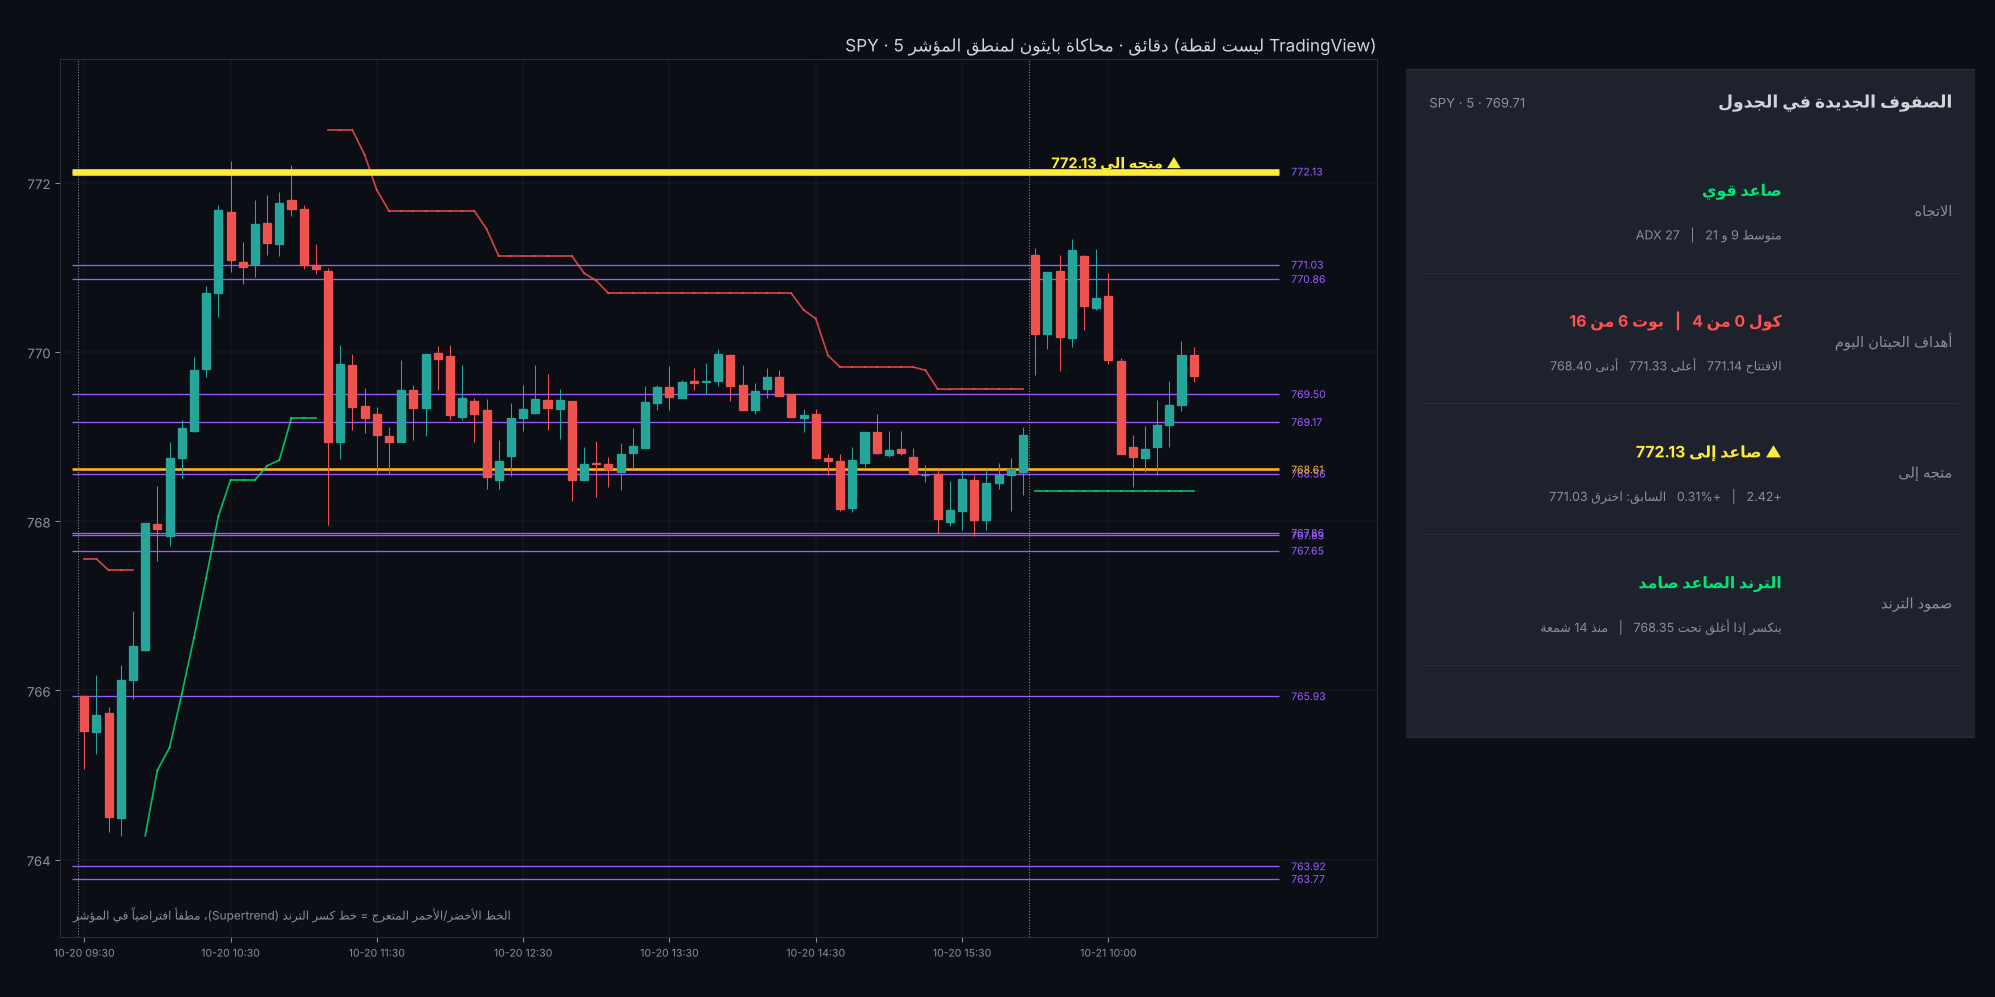
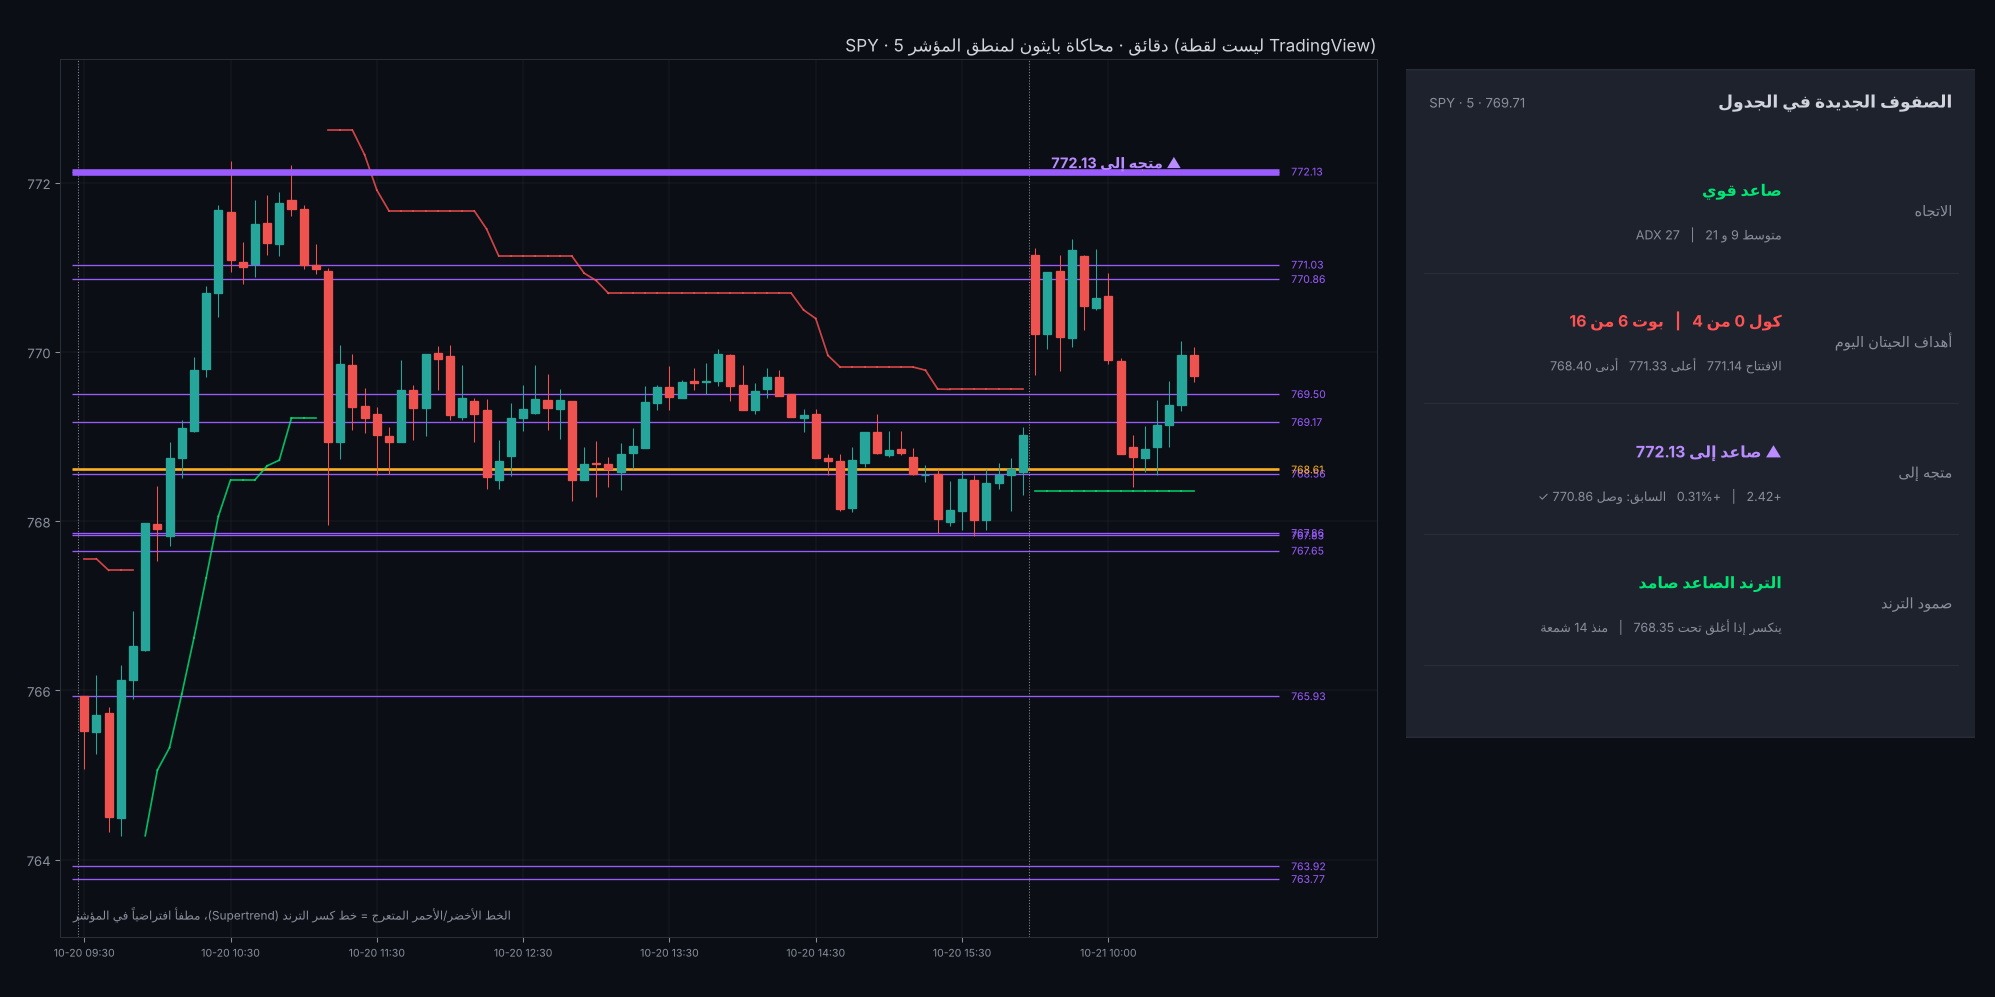
Preview: purple heading line ending on touch
Claude-Session: https://claude.ai/code/session_01LqVdPjKMY9JTEX1zUaxwh2

Changed region(s): [[0.0311, 0.1555, 0.6526, 0.1866], [0.808, 0.4353, 0.9013, 0.4664]]

diff --git a/reports/make_intraday_preview.py b/reports/make_intraday_preview.py
@@ -58,11 +58,11 @@ for i in range(1, len(full)):
     st[i] = lb[i] if sd[i] < 0 else ub[i]
 off = len(full) - len(w)
 # heading level state machine
-hDir, hL, hLast, heads = 0, np.nan, "", []
+hDir, hL, hLast, heads = 0, np.nan, "", []; hh_, ll_ = full.high.to_numpy(), full.low.to_numpy()
 for i in range(off, len(full)):
     if hDir:
-        if (hDir > 0 and cc[i] > hL) or (hDir < 0 and cc[i] < hL): hLast = f"اخترق {hL:.2f}"; hDir = 0
-        elif nowDir[i] == -hDir: hLast = f"انعكس عند {hL:.2f}"; hDir = 0
+        if (hDir > 0 and hh_[i] >= hL) or (hDir < 0 and ll_[i] <= hL): hLast = f"وصل {hL:.2f} ✓"; hDir = 0
+        elif nowDir[i] == -hDir: hLast = f"انعكس قبل {hL:.2f}"; hDir = 0
     if not hDir and nowDir[i]:
         cand = [x for x in LV if (x - cc[i]) * nowDir[i] > 0]
         if cand: hDir = int(nowDir[i]); hL = min(cand, key=lambda x: abs(x - cc[i]))
@@ -83,8 +83,8 @@ for i in range(1, N):
     if sdw[i] == sdw[i - 1]: ax.plot([i - 1, i], [stw[i - 1], stw[i]], color="#00e676" if sdw[i] < 0 else "#ff5252", lw=1.3, alpha=.8, zorder=3)
 hd, hl = heads[-1]
 if hd:
-    ax.hlines(hl, -1, N + 6, color="#ffeb3b", lw=5, zorder=5)
-    ax.text(N - 2, hl, ("▲ " if hd > 0 else "▼ ") + f"متجه إلى {hl:.2f}", color="#ffeb3b", fontsize=11, weight="bold", ha="right", va="bottom", zorder=6)
+    ax.hlines(hl, -1, N + 6, color="#9b5cff", lw=5, zorder=5)
+    ax.text(N - 2, hl, ("▲ " if hd > 0 else "▼ ") + f"متجه إلى {hl:.2f}", color="#b98cff", fontsize=11, weight="bold", ha="right", va="bottom", zorder=6)
 sess = w.index.normalize(); starts = np.r_[0, np.flatnonzero(sess[1:] != sess[:-1]) + 1]
 for s_ in starts: ax.axvline(s_ - .5, color=MUT, lw=.8, ls=":")
 ticks = list(range(0, N, 12)); ax.set_xticks(ticks); ax.set_xticklabels([w.index[i].strftime("%m-%d %H:%M") for i in ticks], color=MUT, fontsize=8)
@@ -99,7 +99,7 @@ G_, R_, Y_ = "#00e676", "#ff5252", "#ffeb3b"
 dist = lambda x: f"{'+' if x >= cl else '-'}{abs(x - cl):.2f}   |   {'+' if x >= cl else '-'}{100 * abs(x - cl) / cl:.2f}%"
 rows = [("الاتجاه", ("صاعد" if nd > 0 else "هابط" if nd < 0 else "عرضي") + (" قوي" if ax_ >= 25 and nd else ""), f"ADX {ax_:.0f}   |   متوسط 9 و 21", G_ if nd > 0 else R_ if nd < 0 else MUT),
         ("أهداف الحيتان اليوم", f"كول {cH} من {len(cT)}   |   بوت {pH} من {len(pT)}", f"الافتتاح {dO:.2f}   أعلى {dH:.2f}   أدنى {dL:.2f}", G_ if cH > pH else R_ if pH > cH else TX),
-        ("متجه إلى", ("▲ صاعد إلى " if hd > 0 else "▼ هابط إلى ") + f"{hl:.2f}" if hd else "لا يوجد", (dist(hl) if hd else "") + (f"   السابق: {hLast}" if hLast else ""), Y_),
+        ("متجه إلى", ("▲ صاعد إلى " if hd > 0 else "▼ هابط إلى ") + f"{hl:.2f}" if hd else "لا يوجد", (dist(hl) if hd else "") + (f"   السابق: {hLast}" if hLast else ""), "#b98cff"),
         ("صمود الترند", ("الترند الصاعد صامد" if up else "الترند الهابط صامد") if flip > 2 else ("انكسر الهابط، بدأ صعود" if up else "انكسر الصاعد، بدأ هبوط"),
          f"ينكسر إذا أغلق {'تحت' if up else 'فوق'} {st[-1]:.2f}   |   منذ {flip} شمعة", G_ if up else R_)]
 tp = fig.add_axes([0.705, 0.25, 0.285, 0.69], facecolor=BG); tp.axis("off"); tp.set_xlim(0, 1); tp.set_ylim(0, 1)
